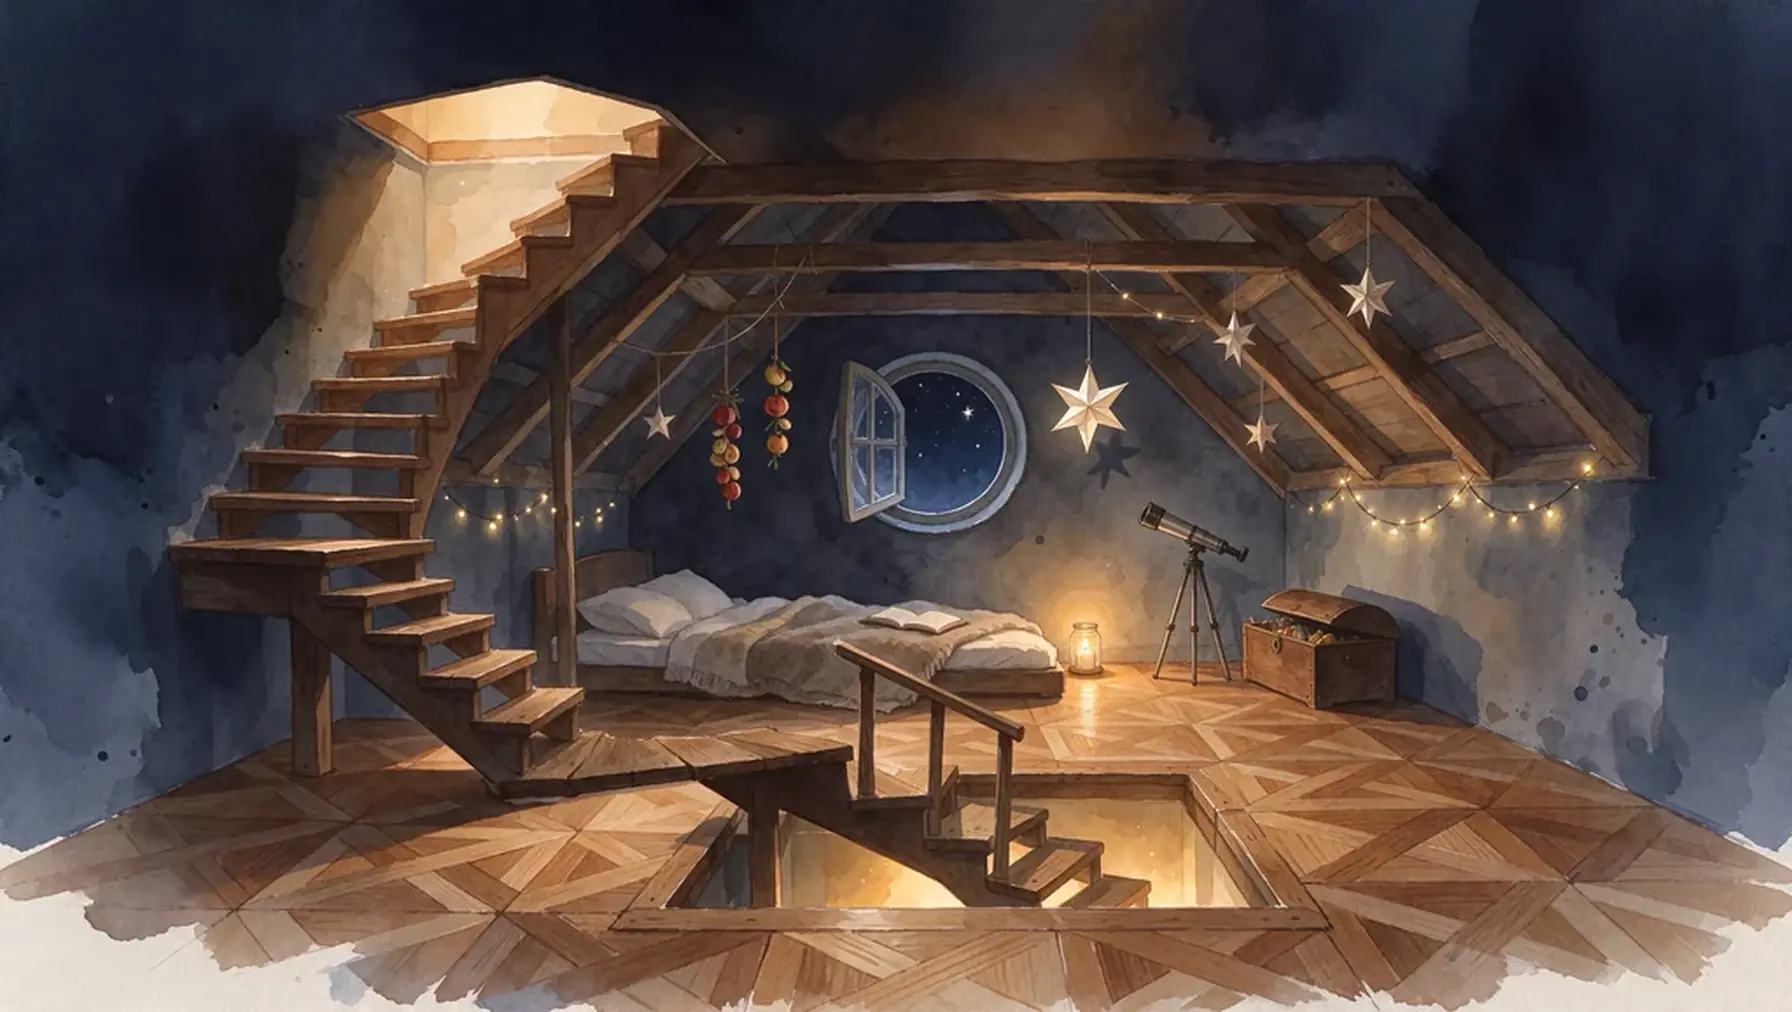
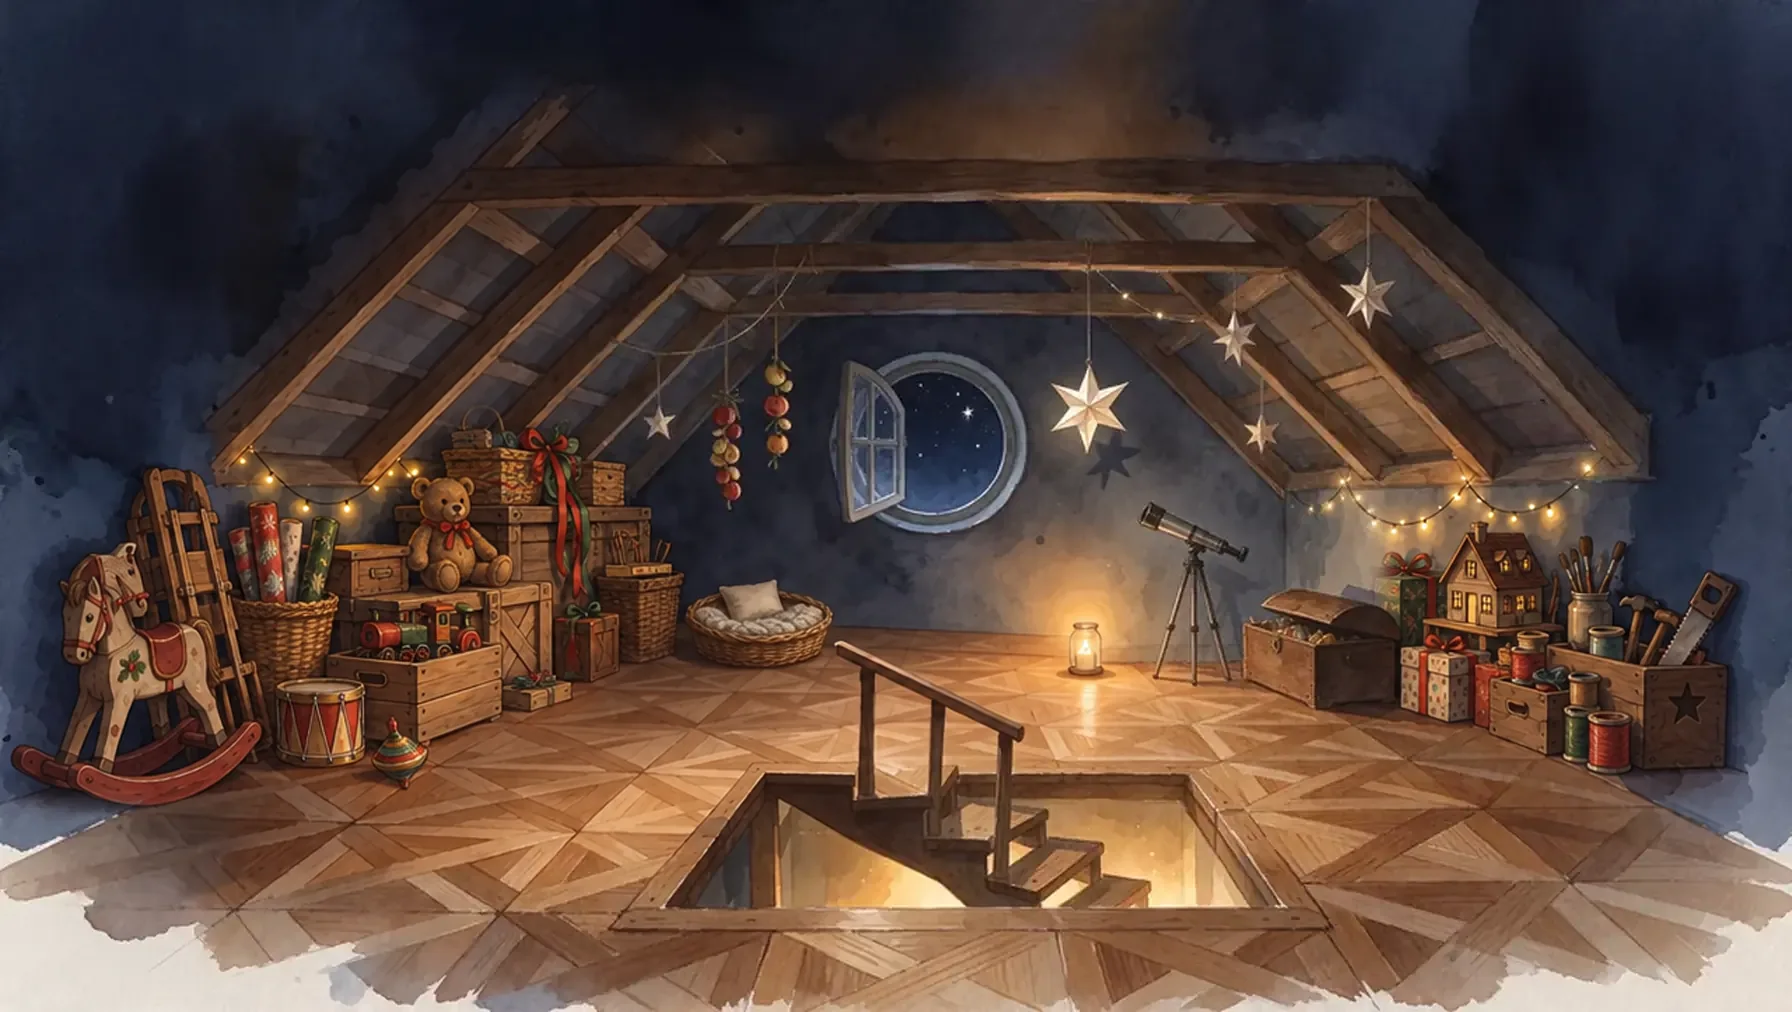
Werkstatt: Fenstersterne mit Strahlen statt Kreisen; Hauptseite: neue Dachkammer
Claude-Session: https://claude.ai/code/session_01ArsKeXS99HkwNhuNehSTEz

Changed region(s): [[0.0, 0.0613, 0.625, 0.8577], [0.75, 0.4595, 1.0, 0.7964]]

diff --git a/werkstatt/index.html b/werkstatt/index.html
@@ -156,6 +156,10 @@ html.wisch body{min-height:calc(100vh + 90px);min-height:calc(100lvh + 90px)}
 .a-funkel.laut{animation-name:aFunkelL}
 .a-funkel.laut::before,.a-funkel.laut::after{width:.26cqw;margin-left:-.13cqw}
 @keyframes aFunkelL{0%,50%,100%{opacity:0;transform:scale(.2) rotate(0)}68%{opacity:1;transform:scale(1.1) rotate(45deg)}84%{opacity:.5;transform:scale(.7) rotate(80deg)}}
+.a-stern{width:var(--s);height:var(--s);margin:calc(var(--s) / -2) 0 0 calc(var(--s) / -2);background:radial-gradient(circle,#fff 0,rgba(255,255,255,.6) 6%,rgba(255,255,255,0) 14%);opacity:0;animation:aStern var(--t) ease-in-out var(--d) infinite}
+.a-stern::before,.a-stern::after{content:"";position:absolute;left:50%;top:0;width:.11cqw;height:100%;margin-left:-.055cqw;background:linear-gradient(rgba(255,255,255,0),#fff 50%,rgba(255,255,255,0))}
+.a-stern::after{transform:rotate(90deg)}
+@keyframes aStern{0%,100%{opacity:.1;transform:scale(.5)}50%{opacity:1;transform:scale(1)}}
 .a-schweb{width:2cqw;margin:-1cqw 0 0 -1cqw;text-align:center;font-weight:800;font-size:1.45cqw;line-height:1;color:var(--gelb);text-shadow:0 0 .4cqw rgba(15,20,48,.85);opacity:0;animation:aSchweb var(--t) ease-out var(--d) infinite}
 .a-schweb.zz{color:#fff;font-size:1.2cqw}
 @keyframes aSchweb{0%{opacity:0;transform:translate(0,0) rotate(0)}8%{opacity:.95}40%{opacity:0;transform:translate(var(--x),-5cqw) rotate(var(--r))}100%{opacity:0;transform:translate(var(--x),-5cqw) rotate(var(--r))}}
@@ -410,7 +414,8 @@ html.wisch body{min-height:calc(100vh + 90px);min-height:calc(100lvh + 90px)}
       var mz=a[a.length-1],mod=mz==="-"?" leise":mz==="+"?" laut":"",fak=mz==="-"?1.45:mz==="+"?.8:1;
       var el0=el;el=function(c,x,y,v,zi){if(v&&v["--t"]&&/^[\d.]+s$/.test(v["--t"]))v["--t"]=f2(parseFloat(v["--t"])*fak)+"s";return el0(c+(/a-(licht|glut|puls|dampf|funkel)/.test(c)?mod:""),x,y,v,zi);};
       switch(a[0]){
-        case "l":case "lw":a[1].forEach(function(p){el("a-licht"+(a[0]==="lw"?" weiss":""),X(p[0]),p[1],{"--t":f2(R(.9,2.4))+"s","--d":f2(-R(0,4))+"s"});});break;
+        case "lw":a[1].forEach(function(p){el("a-stern",X(p[0]),p[1],{"--s":f2(R(.9,1.3))+"cqw","--t":f2(R(1.6,3.2))+"s","--d":f2(-R(0,3))+"s"});});break;
+        case "l":a[1].forEach(function(p){el("a-licht",X(p[0]),p[1],{"--t":f2(R(.9,2.4))+"s","--d":f2(-R(0,4))+"s"});});break;
         case "g":el("a-glut",X(a[1]),a[2],{"--s":(a[3]*(mod===" leise"?1:mod===" laut"?1.9:1.5))+"cqw","--t":f2(R(2.2,3.6))+"s","--d":f2(-R(0,3))+"s"});break;
         case "p":el("a-puls",X(a[1]),a[2],{"--s":(a[3]*(mod?1.4:1))+"cqw","--t":(typeof a[4]==="number"?a[4]:6)+"s","--d":f2(-R(0,6))+"s"});break;
         case "d":var nd=mod?7:5;for(var k=0;k<nd;k++)el("a-dampf",X(a[1]),a[2],{"--x":f2(R(-1.8,1.8))+"cqw","--d":f2(k*4.8/nd)+"s"});break;
